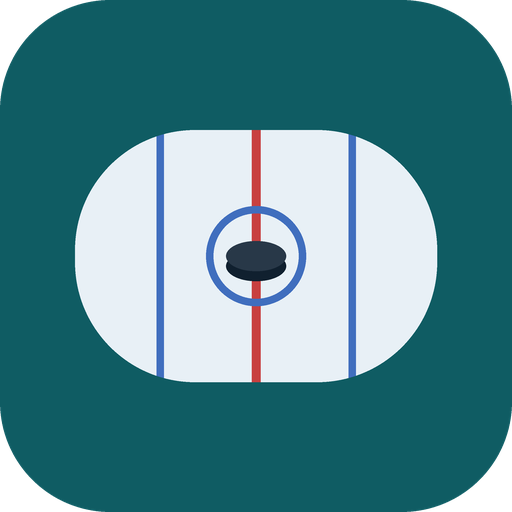
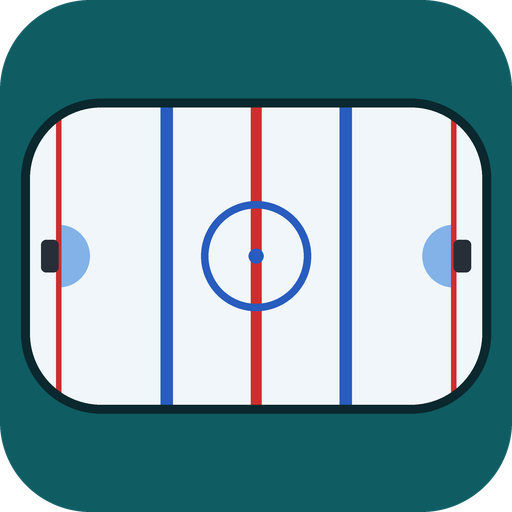
Add files via upload

diff --git a/ice_time.py b/ice_time.py
@@ -29,7 +29,7 @@ import urllib.parse
 import urllib.request
 from http.server import BaseHTTPRequestHandler, ThreadingHTTPServer
 
-VERSION = "0.1.1"
+VERSION = "0.1.2"
 
 DATA_DIR = os.environ.get("DATA_DIR", "/data")
 PORT = int(os.environ.get("PORT", "8080"))

diff --git a/DECISIONS.md b/DECISIONS.md
@@ -73,3 +73,10 @@ take ownership of `DATA_DIR`, then permanently drops to `PUID:PGID` (default
 (`drop_privileges`) rather than an entrypoint script, so the image stays one
 file. Started with `--user`, it never runs as root at all.
 
+## 0.1.2
+
+**Icon reads as a rink.** The rink fills the tile edge to edge, with
+board-shaped corners (about a third of its height, like a real rink, rather
+than a pill), goal lines, creases and nets — so it's recognisable at the small
+size Unraid shows it.
+

diff --git a/ROADMAP.md b/ROADMAP.md
@@ -1,6 +1,6 @@
 # Roadmap
 
-## Now (0.1.1)
+## Now (0.1.2)
 
 - Paste Finnly registration links on the settings page; preview, label, pause, remove.
 - Reads every link every 30 minutes; keeps the last good read.
